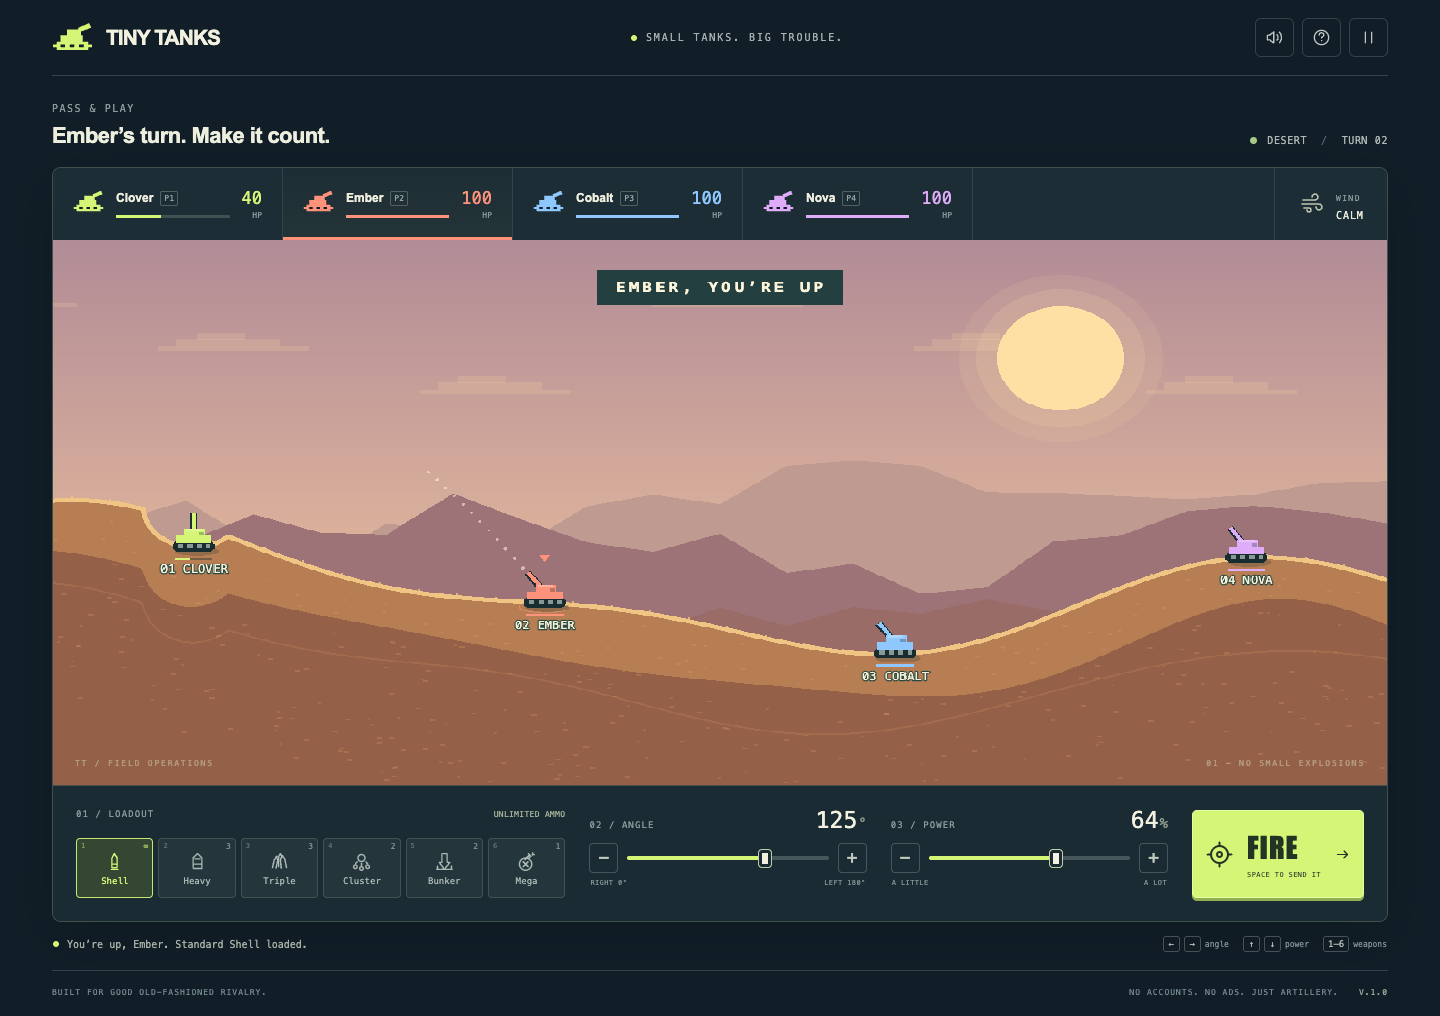
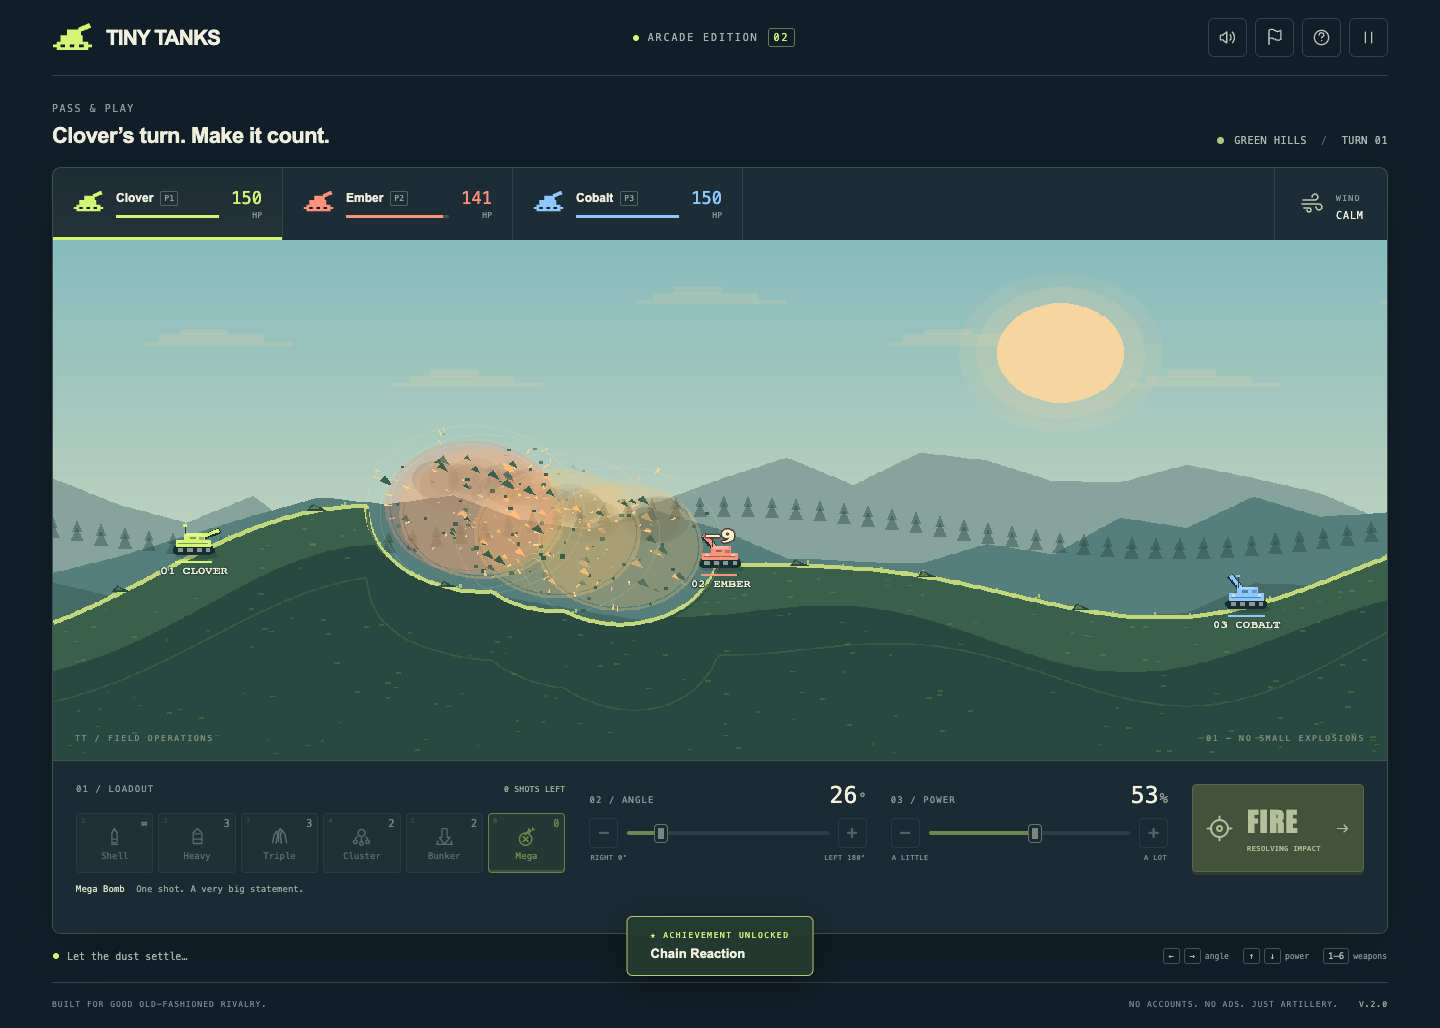
Verify Arcade Edition production flows and refresh release documentation

diff --git a/tests/browser.spec.ts b/tests/browser.spec.ts
@@ -74,6 +74,7 @@ test("production menu, keyboard, six loadouts, pause, settings, local turns and 
     timeout: 20000,
   });
   await expect(page.locator("#match-title")).toContainText("Ember");
+  await expect(page.locator("#status")).toContainText("Ember");
   await expect(page.locator("#fire")).toBeEnabled();
   await page.waitForTimeout(1200);
   await expect(page.locator("#turn-label")).toHaveText("TURN 02");
@@ -116,6 +117,13 @@ test("a complete human vs AI match resolves damage, winner and immediate rematch
   expect(shots).toBeLessThan(8);
   await expect(page.locator(".eliminated")).toHaveCount(1);
   await expect(page.locator(".results")).toContainText("DAMAGE");
+  await expect(page.locator(".results")).toContainText("KILLS");
+  await expect(page.locator(".results")).toContainText("HIT %");
+  const record = await page.evaluate(() =>
+    JSON.parse(localStorage.getItem("tiny-tanks-record-v2")!),
+  );
+  expect(record.matches).toBe(1);
+  expect(record.wins + record.losses + record.draws).toBe(1);
   await page.screenshot({
     path: "test-results/match-results.png",
     fullPage: true,
@@ -124,6 +132,15 @@ test("a complete human vs AI match resolves damage, winner and immediate rematch
   await expect(page.locator("#turn-label")).toHaveText("TURN 01");
   await expect(page.locator("#fire")).toBeEnabled();
   await expect(page.locator(".eliminated")).toHaveCount(0);
+  await page.locator("#records").click();
+  await expect(page.getByText("A little bragging rights.")).toBeVisible();
+  await expect(page.locator(".achievement-list .achievement")).toHaveCount(5);
+  await page.getByRole("button", { name: "Close dialog" }).click();
+  expect(
+    await page.evaluate(
+      () => JSON.parse(localStorage.getItem("tiny-tanks-record-v2")!).matches,
+    ),
+  ).toBe(1);
 });
 
 test("mobile touch aim and fire retain the entire battlefield through orientation changes", async ({
@@ -260,4 +277,69 @@ test("every weapon fires and resolves in the actual renderer", async ({
     });
     await expect(page.locator("#fire")).toBeEnabled();
   }
+});
+
+test("Quick Play resets battle rules in one click, preserves comfort settings, and supports smooth aim holds", async ({
+  page,
+}) => {
+  const errors: string[] = [];
+  page.on("pageerror", (e) => errors.push(e.message));
+  await ready(page);
+  await page.locator("#settings").click();
+  await page.locator("[name=players]").selectOption("4");
+  await page.locator("[name=difficulty]").selectOption("hard");
+  await page.locator("[name=health]").selectOption("150");
+  await page.locator("[name=wind]").uncheck();
+  await page.locator("[name=crates]").uncheck();
+  await page.locator("[name=preview]").uncheck();
+  await page.locator("[name=reducedMotion]").check();
+  await page.locator("[name=inputSpeed]").selectOption("precise");
+  await page.getByRole("button", { name: "Save settings" }).click();
+  await page.locator("#quick-play").click();
+  await expect(page.locator("#fire")).toBeEnabled();
+  await expect(page.locator("#players .player-card")).toHaveCount(3);
+  await expect(
+    page.locator(".player-details span").filter({ hasText: "CPU" }),
+  ).toHaveCount(2);
+  const settings = await page.evaluate(() =>
+    JSON.parse(localStorage.getItem("tiny-tanks-settings")!),
+  );
+  expect(settings).toMatchObject({
+    mode: "ai",
+    players: 3,
+    difficulty: "normal",
+    health: 100,
+    wind: true,
+    crates: true,
+    preview: false,
+    reducedMotion: true,
+    inputSpeed: "precise",
+  });
+  await expect(page.locator("body")).toHaveClass(/reduced-motion/);
+  await expect(page.locator("#weapon-info")).toContainText("Standard Shell");
+  const before = +(await page.locator("#angle").inputValue());
+  const plus = page.getByRole("button", { name: "Increase angle" });
+  await plus.hover();
+  await page.mouse.down();
+  await page.waitForTimeout(250);
+  await page.mouse.up();
+  expect(+(await page.locator("#angle").inputValue())).toBeGreaterThan(
+    before + 1,
+  );
+  await page.locator("#pause").click();
+  await page.locator("#pause-settings").click();
+  await expect(page.locator("[name=crates]")).toBeChecked();
+  await expect(page.locator("[name=preview]")).not.toBeChecked();
+  await page.getByRole("button", { name: "Save settings" }).click();
+  await page.locator("#resume").click();
+  await page.locator("#fire").click();
+  await expect
+    .poll(
+      async () =>
+        (await page.locator("#fire").isEnabled()) ||
+        (await page.locator("#rematch").isVisible()),
+      { timeout: 30000 },
+    )
+    .toBe(true);
+  expect(errors).toEqual([]);
 });

diff --git a/README.md b/README.md
@@ -1,12 +1,16 @@
-# Tiny Tanks
+# Tiny Tanks — Arcade Edition
 
 Small tanks. Big trouble. An original browser artillery game inspired by the genre’s DOS-era classics, built with strict TypeScript, Phaser 3, and Vite. All graphics and sounds are procedural; there are no external runtime services, accounts, ads, or backend.
 
-![An actual Tiny Tanks local match in the Desert theme, after an impact](docs/gameplay.png)
+![An actual Arcade Edition Mega Bomb and three-crate chain reaction](docs/gameplay.png)
 
 [Main menu screenshot](docs/menu.png)
 
 ## Play
+
+**Quick Play** starts one human against two Normal AI tanks, with a random theme, wind, and explosive crates. Custom solo and local games remain available. Aiming speed, the short trajectory preview, reduced motion, and sound are configurable. Holding touch controls and keyboard arrows uses the same smooth, accelerating input.
+
+Arcade Edition adds layered explosions with smoke, sparks, dirt and debris; weapon-specific recoil, speeds and synthesized sounds; deeper bunker craters; decorative rocks; restrained high-shot camera following; and AI that weighs damage, ammunition, self-hit risk, and crate opportunities. Crate chains resolve in stable order, with a strict eight-crate safety bound. Up to three crates spawn clear of tanks when enabled.
 
 - One human vs 1–3 computer tanks, with Easy, Normal, and Hard AI.
 - 2–4 players sharing one device.
@@ -15,7 +19,7 @@ Small tanks. Big trouble. An original browser artillery game inspired by the gen
 - Green Hills, Desert, and Moon themes. Moon has lower gravity.
 - Keyboard, mouse, and touch controls; synthesized sound with mute and volume settings; offline PWA support.
 
-Last tank standing wins. Local multiplayer advances directly to the next player; pass the device when their name appears. Match settings configure tank count, AI difficulty, wind, terrain, and starting health.
+Last tank standing wins. Local multiplayer advances directly to the next player; pass the device when their name appears. Match settings configure tank count, AI difficulty, wind, terrain, starting health, and crates. Sound, aiming and motion preferences apply immediately; combat settings changed while paused apply on restart.
 
 ## Controls
 
@@ -28,6 +32,14 @@ Last tank standing wins. Local multiplayer advances directly to the next player;
 | Pause         | Escape              | Pause button               |
 
 Angles use physical coordinates: **0° right, 90° up, 180° left**. Wind’s arrow shows its direction; higher numbers bend shots more. Direct hits do extra damage. Removing ground beneath a tank can cause additional fall damage. Cluster bombs split during descent; bunker shells travel into the ground before exploding.
+
+## Local records
+
+The flag button opens your arcade record as **Clover / Player 1**, including local multiplayer. Completed matches contribute wins, losses, matches, damage, best accuracy, largest hit, and longest chain. Accuracy counts shots that damage at least one opponent, once per shot, including fall and crate damage; self hits never count. Damage is actual health removed, excluding overkill and self damage. Match duration counts active simulation time, excluding pauses.
+
+Five local achievements: **First Victory**, **Sharpshooter** (75% accuracy over at least three shots), **Chain Reaction** (two crates in one chain), **Demolition Expert** (500 total damage), and **Comeback Victory** (win after surviving at 25% health). Chain Reaction unlocks immediately; match-based records and other achievements update at results. Storage is optional: the game still works when it is unavailable. Records remain on this browser/device.
+
+Rematch retains the match rules and creates a fresh seed. **Replay this map** retains the seed too. Results show kills, damage, shots, accuracy, duration, and the longest chain.
 
 ## Develop and build
 
@@ -49,7 +61,7 @@ npm run preview
 
 ### Browser verification
 
-The Playwright suite covers local multiplayer, all six loadout selections, keyboard aiming, firing, pause/resume, a full human-vs-AI match, elimination and rematch, touch controls, orientation/resize, manifest/icon loading, and offline reload and gameplay.
+The Playwright suite covers local multiplayer, all six loadout selections, keyboard aiming, firing, pause/resume, a full human-vs-AI match, elimination and rematch, touch controls, orientation/resize, manifest/icon loading, offline reload and gameplay, records, comfort preferences, and one-click Quick Play.
 
 ```sh
 npx playwright install chromium
@@ -101,6 +113,8 @@ The service worker caches the app shell, icons, CSS, JavaScript, and bundled Pha
 - `src/game/weapons.ts`: reusable weapon definitions and ammunition rules.
 - `src/game/ai.ts`: candidate trajectories evaluated with the same physics and terrain collisions as player shots.
 - `src/game/scene.ts`: Phaser rendering, interpolation, visual effects, keyboard aiming, and AI timing.
+- `src/game/crates.ts`, `src/game/records.ts`: safe crate placement, local statistics, and achievement rules.
+- `src/game/effects.ts`: bounded procedural flashes, smoke, sparks, dirt, and debris.
 - `src/game/audio.ts`: original Web Audio synthesis, unlocked by user interaction.
 - `src/ui/app.ts`, `src/styles/main.css`: responsive DOM menus, HUD, controls, settings, results, and install prompt.
 - `src/tests/`: deterministic Vitest rule tests; `tests/`: Playwright browser scenarios.
@@ -110,8 +124,10 @@ The service worker caches the app shell, icons, CSS, JavaScript, and bundled Pha
 
 Rule tests exercise ballistics, wind, swept collision, seeded terrain, craters, blast and direct-hit damage, elimination, turn order, skipped players, winners/draws, ammunition, every weapon behavior, valid AI shots, and complete matches in every theme.
 
-Terrain is a heightmap: it supports craters, but no caves or overhangs. Tanks settle vertically and take fall damage; there is no lateral movement or loose-soil simulation. Portrait mode keeps the entire battlefield visible with controls below; landscape gives tanks more screen space. The canvas adapts its display proportions to compact desktop and mobile layouts while keeping the same logical physics coordinates. AI uses a bounded trajectory search and can miss, particularly with wind and special weapons. Settings changed in a paused match apply to the next restart.
+Terrain is a heightmap: it supports craters, but no caves or overhangs. Tanks settle vertically and take fall damage; there is no lateral movement or loose-soil simulation. Portrait mode keeps the entire battlefield visible with controls below; landscape gives tanks more screen space. The canvas adapts its display proportions to compact desktop and mobile layouts while keeping the same logical physics coordinates. AI uses a bounded trajectory search and can miss, particularly with wind and special weapons. Combat settings changed in a paused match apply to the next restart; aiming, motion, and sound preferences apply immediately.
 
 Browser automation can verify an active service worker, cached offline gameplay, manifest metadata, and responsive touch interactions. It does not verify native OS installation, physical-device performance, or speaker output. Native installation and a physical-device listening/play session remain recommended release checks.
 
-Verified locally on November 14, 2026: **31 Vitest tests**, **5 Playwright production scenarios**, strict TypeScript checking, and the production build passed. The browser suite was run in headless Chrome against `/tiny-tanks/` with GitHub Actions repository-path inference enabled. It included all six weapons firing, a completed match and rematch, desktop/tablet/mobile layouts, touch and keyboard input, and an offline reload followed by a playable turn. Chrome reported no application-level PWA installability errors; native installation remains untested because Playwright contexts are incognito.
+Arcade Edition verification includes the original 31 rule tests plus 17 focused crate, chain termination, statistics, achievement, balance, and Quick Play tests. Six production browser scenarios include the original flows and Quick Play/records. Native OS installation, physical-device performance, and speaker output remain untested; Chrome touch emulation and offline gameplay are covered by browser verification.
+
+Release checks on November 14, 2026: **48 unit tests and six production browser scenarios passed**, as did strict TypeScript checking and the production build under `/tiny-tanks/`. A reproducible legal shot was also played in Chrome to verify a three-crate chain, nearby tank damage, smoke/debris, and the immediate Chain Reaction achievement. Portrait/landscape layouts and a real emulated touch hold were inspected in Chrome. No physical-device or native installation result is implied.
